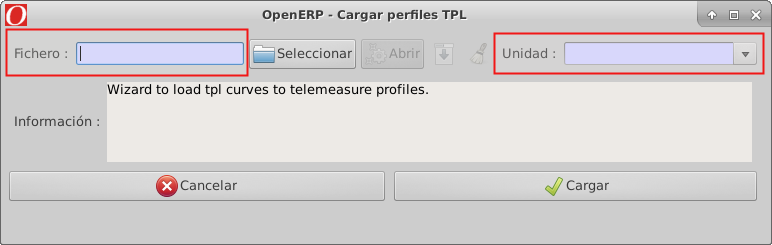
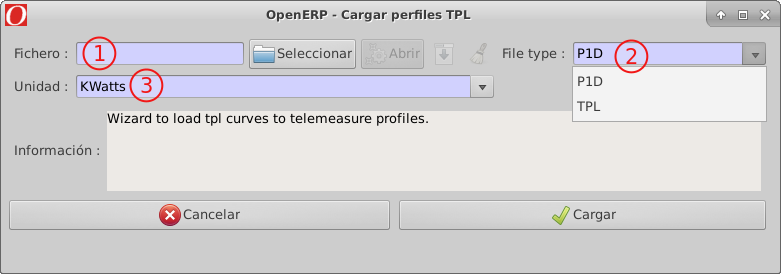
ADD documentation for P1D import

diff --git a/docs/distri/telemedida.md b/docs/distri/telemedida.md
@@ -94,22 +94,29 @@ En aquesta pestanya trobem diferents camps configurables i informatius.
 
 ![](_static/telemedida/ConfigureTelemeasureMeter.png)
 
-## Càrrega de fitxers .curva de TPL
-Per tal de carregar els perfils horaris que s'extreuen dels comptadors mitjançant els
-dispositius TPL, s'utilitza l'assistent següent:
-**Infraestructura > Telemesura > Carrega perfils TPL**
+## Càrrega de corbes de telemesura mitjançant fitxers
+Per tal de carregar els perfils horaris de telemesura s'utilitza l'assistent següent:
+**Infraestructura > Telemesura > Càrrega perfils TPL**
 
 ![](_static/telemedida/LoadTPLProfilesPath.png)
 
 ![](_static/telemedida/LoadTPLProfilesWizard.png)
 
-Aquest assistent suporta fitxers en format **.curva** i també un conjunt d'aquests fitxers
-comprimits en ".zip".
-Dins l'assistent i indicant la unitat d'energia que s'utilitza en el fitxer especificat ja
-està llest per polsar el botó **Carregar**. El primer pas que executa el procés de càrrega
-és el de comprovar si el comptador referenciat dins el fitxer té o no perfils existents
-per el període entre les dates d'inici i final del fitxer. Si es troben perfils els eliminarà.
-El següent pas és crear tots els perfils nous.
+Aquest assistent suporta dos tipus de fitxers diferents:
+
+* Format **.curva** que s'extreu dels comptadors mitjançant els dispositius TPL.
+
+* Format [P1D](_/static/telemedida/P1D.pdf) definit per la REE.
+
+A més a més es poden introduir un o altre d'aquests dos formats de fitxers massivament
+comprimits en un fitxer ".zip".
+
+Dins l'assistent ens caldrà seleccionar el fitxer que volem carregar **1** i el tipus de
+fitxer del que es tracta **2**. Per últim haurem d'indicar la unitat d'energia que
+s'utilitza en el fitxer introduït **3**.
+El primer pas que executa el procés de càrrega és el de comprovar si el comptador referenciat
+dins el fitxer té o no perfils existents per el període entre les dates d'inici i final del
+fitxer. Si es troben perfils els eliminarà. El següent pas és crear tots els perfils nous.
 
 Si hem introduït un sol fitxer i no un ".zip", un cop hagi acabat el procés veurem el mateix
 missatge que es mostra a la següent imatge. A la finestra de l'assistent indica la quantitat
